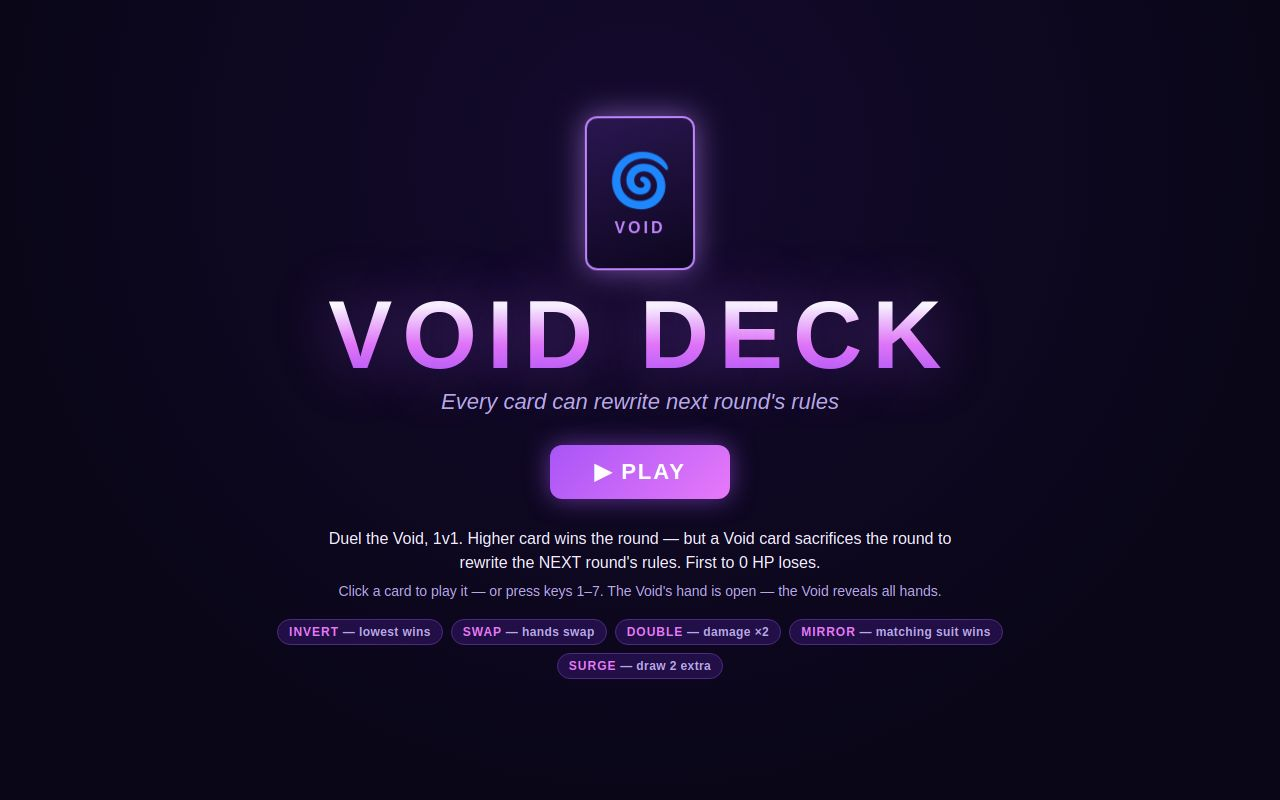
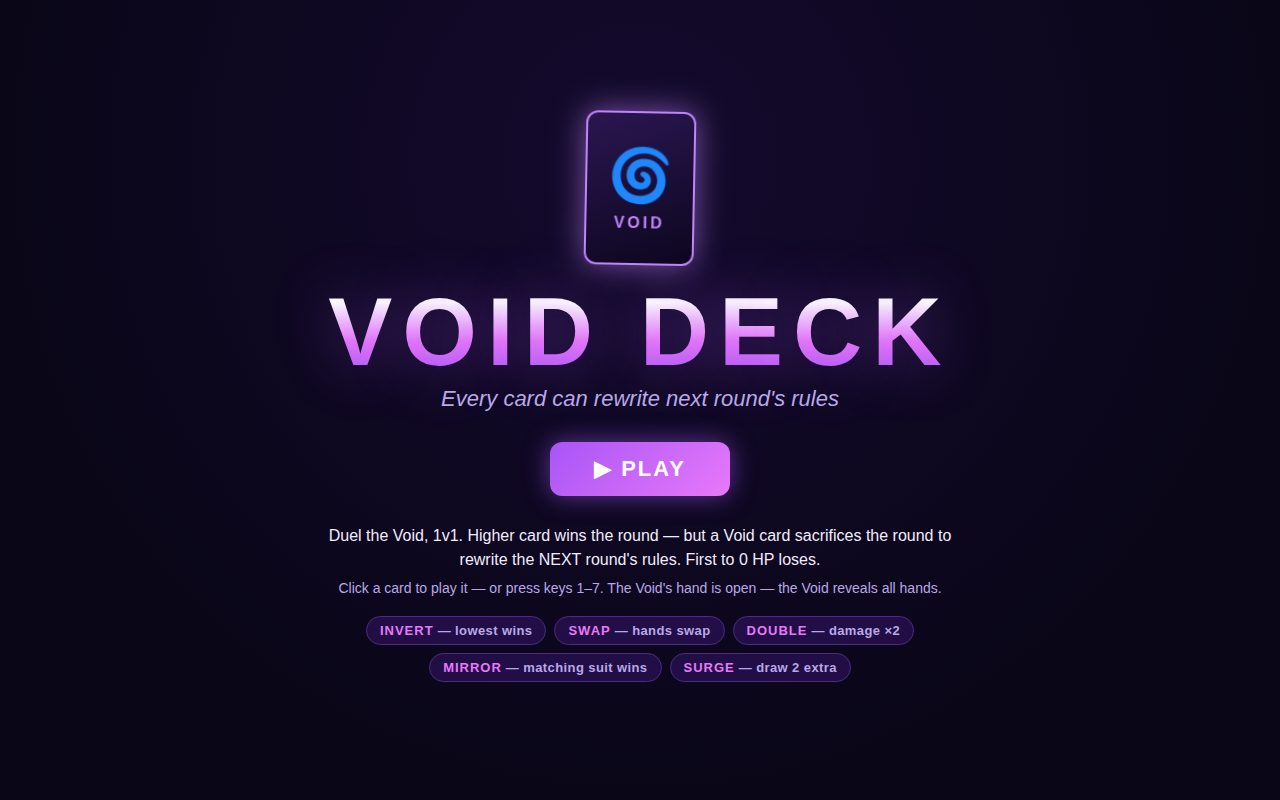
VOID DECK v3 polish — full-screen win flourish, Void emblem on loss

diff --git a/game/css/style.css b/game/css/style.css
@@ -58,9 +58,9 @@ body {
 .howto-sub { margin-top: 8px; font-size: 14px; color: var(--muted); }
 .void-chips { margin-top: 20px; display: flex; flex-wrap: wrap; gap: 8px; justify-content: center; max-width: 760px; }
 .void-chip {
-  font-size: 12px; font-weight: 600; letter-spacing: .4px; color: var(--muted);
+  font-size: 13px; font-weight: 600; letter-spacing: .4px; color: var(--muted);
   background: rgba(76, 29, 149, .35); border: 1px solid #4c2a85;
-  padding: 5px 11px; border-radius: 999px; white-space: nowrap;
+  padding: 6px 13px; border-radius: 999px; white-space: nowrap;
 }
 .void-chip b { color: var(--accent2); font-weight: 900; letter-spacing: 1px; }
 .title-void-card { perspective: 600px; }
@@ -157,7 +157,7 @@ body {
 .card.flip { animation: flipIn .45s ease; }
 .card.winner-card { box-shadow: 0 0 26px rgba(251, 191, 36, .85); outline: 2px solid var(--gold); }
 @media (prefers-reduced-motion: reduce) {
-  .card.flip, .rule-banner, .combo-badge, .title-void-card .mini-card { animation: none; }
+  .card.flip, .rule-banner, .combo-badge, .title-void-card .mini-card, .void-emblem { animation: none; }
   .card, .btn, .hp-fill { transition: none; }
 }
 @keyframes flipIn { 0% { transform: rotateY(90deg); } 100% { transform: rotateY(0deg); } }
@@ -181,14 +181,59 @@ body {
 @keyframes floatUp { 0% { transform: translateY(0); opacity: 1; } 100% { transform: translateY(-70px); opacity: 0; } }
 
 /* ---------- End screen ---------- */
+#end-screen { position: relative; overflow: hidden; }
+/* Text/button stay above the halo, emblem and confetti layers. */
+#end-screen > :not(.confetti):not(.void-emblem) { position: relative; z-index: 1; }
 .end-title { font-size: 64px; font-weight: 900; letter-spacing: 6px; text-align: center; }
-.end-title.win { color: var(--gold); text-shadow: 0 0 40px rgba(251, 191, 36, .8); animation: winGlow 1.4s ease-in-out infinite; }
+.end-title.win { color: var(--gold); text-shadow: 0 0 44px rgba(251, 191, 36, .9), 0 0 100px rgba(251, 191, 36, .45); animation: winGlow 1.4s ease-in-out infinite; }
 .end-title.lose { color: var(--void); text-shadow: 0 0 40px rgba(192, 132, 252, .7); }
-@keyframes winGlow { 0%, 100% { text-shadow: 0 0 30px rgba(251, 191, 36, .6); } 50% { text-shadow: 0 0 60px rgba(251, 191, 36, 1); } }
+@keyframes winGlow { 0%, 100% { text-shadow: 0 0 34px rgba(251, 191, 36, .7), 0 0 80px rgba(251, 191, 36, .35); } 50% { text-shadow: 0 0 64px rgba(251, 191, 36, 1), 0 0 130px rgba(251, 191, 36, .55); } }
 .end-subtitle { font-size: 20px; color: var(--muted); margin: 12px 0 24px; }
 .end-stats { font-size: 19px; line-height: 1.8; color: var(--text); margin-bottom: 30px; text-align: center; }
 #end-screen .confetti { position: absolute; width: 10px; height: 16px; top: -20px; animation: confettiFall linear forwards; border-radius: 2px; }
-@keyframes confettiFall { to { transform: translateY(105vh) rotate(720deg); opacity: .8; } }
+@keyframes confettiFall { to { transform: translate(var(--drift, 0px), 105vh) rotate(720deg); opacity: .8; } }
+
+/* Win flourish: warm gold halo behind VICTORY + a sparkle row that fills
+   the empty band below PLAY AGAIN. */
+#end-screen.win-flourish::before {
+  content: ''; position: absolute; inset: 0; z-index: 0; pointer-events: none;
+  background:
+    radial-gradient(ellipse 62% 46% at 50% 38%, rgba(251, 191, 36, .30) 0%, rgba(251, 191, 36, .10) 45%, transparent 70%),
+    radial-gradient(ellipse 90% 55% at 50% 102%, rgba(168, 85, 247, .20) 0%, transparent 60%);
+}
+#end-screen.win-flourish::after {
+  content: '✦　✦　✦　✦　✦　✦　✦　✦　✦';
+  position: absolute; left: 0; right: 0; bottom: 36px; z-index: 0;
+  text-align: center; font-size: 22px; letter-spacing: 6px;
+  color: rgba(251, 191, 36, .55); text-shadow: 0 0 18px rgba(251, 191, 36, .8);
+  pointer-events: none;
+}
+
+/* Loss backdrop: a dim violet halo + one giant, slowly turning Void swirl
+   behind DEFEAT, and a faint sparkle row low on the screen. Tasteful and
+   dark — the emptiness becomes atmosphere instead of blank space. */
+#end-screen.lose-emblem::before {
+  content: ''; position: absolute; inset: 0; z-index: 0; pointer-events: none;
+  background:
+    radial-gradient(ellipse 56% 46% at 50% 42%, rgba(168, 85, 247, .17) 0%, rgba(76, 29, 149, .10) 45%, transparent 70%),
+    radial-gradient(ellipse 80% 50% at 50% 102%, rgba(76, 29, 149, .22) 0%, transparent 62%);
+}
+.void-emblem {
+  display: none; position: absolute; left: 50%; top: 46%; z-index: 0;
+  transform: translate(-50%, -50%);
+  font-size: 430px; line-height: 1; color: rgba(192, 132, 252, .13);
+  text-shadow: 0 0 90px rgba(168, 85, 247, .45);
+  animation: voidSpin 46s linear infinite; pointer-events: none;
+}
+#end-screen.lose-emblem .void-emblem { display: block; }
+@keyframes voidSpin { from { transform: translate(-50%, -50%) rotate(0deg); } to { transform: translate(-50%, -50%) rotate(360deg); } }
+#end-screen.lose-emblem::after {
+  content: '✦　✦　✦　✦　✦　✦　✦　✦　✦';
+  position: absolute; left: 0; right: 0; bottom: 36px; z-index: 0;
+  text-align: center; font-size: 20px; letter-spacing: 6px;
+  color: rgba(192, 132, 252, .28); text-shadow: 0 0 16px rgba(168, 85, 247, .5);
+  pointer-events: none;
+}
 
 /* ---------- Small screens (judge shrink 768x480) ---------- */
 @media (max-width: 820px) {

diff --git a/game/js/render.js b/game/js/render.js
@@ -125,19 +125,43 @@
     setTimeout(function () { d.remove(); }, 1300);
   }
 
-  // Win-screen flourish: falling confetti pieces.
+  // Win-screen flourish: falling confetti pieces across the WHOLE screen.
+  // Live game: a fresh random scatter every win. ?shot=win: a fixed seed
+  // (mulberry32) so the screenshot is reproducible and shows a good spread
+  // on every capture. Pieces start mid-fall (negative animation-delay),
+  // so the screen is full of confetti from the first frame instead of
+  // only the top strip filling in slowly.
   function confetti() {
     var screen = el('end-screen');
-    var colors = ['#fbbf24', '#a855f7', '#e879f9', '#4ade80', '#38bdf8', '#ef4444'];
-    for (var i = 0; i < 70; i++) {
+    screen.classList.add('win-flourish');
+    var params = new URLSearchParams(window.location.search);
+    var seeded = params.get('shot') === 'win';
+    var seed = 20261123;
+    function rand() {
+      if (!seeded) return Math.random();
+      seed |= 0; seed = seed + 0x6D2B79F5 | 0;
+      var t = Math.imul(seed ^ seed >>> 15, 1 | seed);
+      t = t + Math.imul(t ^ t >>> 7, 61 | t) ^ t;
+      return ((t ^ t >>> 14) >>> 0) / 4294967296;
+    }
+    var colors = ['#fbbf24', '#a855f7', '#e879f9', '#4ade80', '#38bdf8', '#ef4444', '#fde68a', '#ffffff'];
+    var COUNT = 130;
+    for (var i = 0; i < COUNT; i++) {
       var p = document.createElement('div');
       p.className = 'confetti';
-      p.style.left = (Math.random() * 100) + 'vw';
+      var dur = 3.0 + rand() * 2.5; // 3.0-5.5s fall: slow enough that a
+      // screenshot ~1s after load still catches most pieces mid-screen.
+      p.style.left = (rand() * 100) + 'vw';
+      p.style.width = (8 + Math.floor(rand() * 7)) + 'px';   // 8-14px wide
+      p.style.height = (10 + Math.floor(rand() * 9)) + 'px'; // 10-18px tall
       p.style.background = colors[i % colors.length];
-      p.style.animationDuration = (2.2 + Math.random() * 2.2) + 's';
-      p.style.animationDelay = (Math.random() * 0.9) + 's';
+      if (rand() < 0.25) p.style.borderRadius = '50%'; // some round pieces
+      p.style.animationDuration = dur + 's';
+      // Negative delay = piece starts part-way down its fall path.
+      p.style.animationDelay = (-rand() * dur * 0.8) + 's';
+      p.style.setProperty('--drift', (Math.floor(rand() * 81) - 40) + 'px');
       screen.appendChild(p);
-      (function (node) { setTimeout(function () { node.remove(); }, 6000); })(p);
+      (function (node) { setTimeout(function () { node.remove(); }, 8000); })(p);
     }
   }
 
@@ -145,6 +169,13 @@
     ['title-screen', 'game-screen', 'end-screen'].forEach(function (s) {
       el(s).classList.toggle('hidden', s !== id);
     });
+    // End-screen flourish hooks (presentation only): game.js sets the title
+    // class (win/lose) before calling this, so CSS can paint the right
+    // backdrop — gold halo + sparkles for a win, dim Void swirl for a loss.
+    var end = el('end-screen');
+    var titleCls = (el('end-title').className || '');
+    end.classList.toggle('win-flourish', id === 'end-screen' && titleCls.indexOf('win') !== -1);
+    end.classList.toggle('lose-emblem', id === 'end-screen' && titleCls.indexOf('lose') !== -1);
   }
 
   var api = {

diff --git a/game/index.html b/game/index.html
@@ -80,6 +80,8 @@
 
   <!-- ============ END SCREEN ============ -->
   <section id="end-screen" class="screen hidden">
+    <!-- Dim giant Void swirl behind DEFEAT (CSS shows it only on loss). -->
+    <div class="void-emblem" aria-hidden="true">🌀</div>
     <h1 id="end-title" class="end-title"></h1>
     <p id="end-subtitle" class="end-subtitle"></p>
     <div id="end-stats" class="end-stats"></div>
